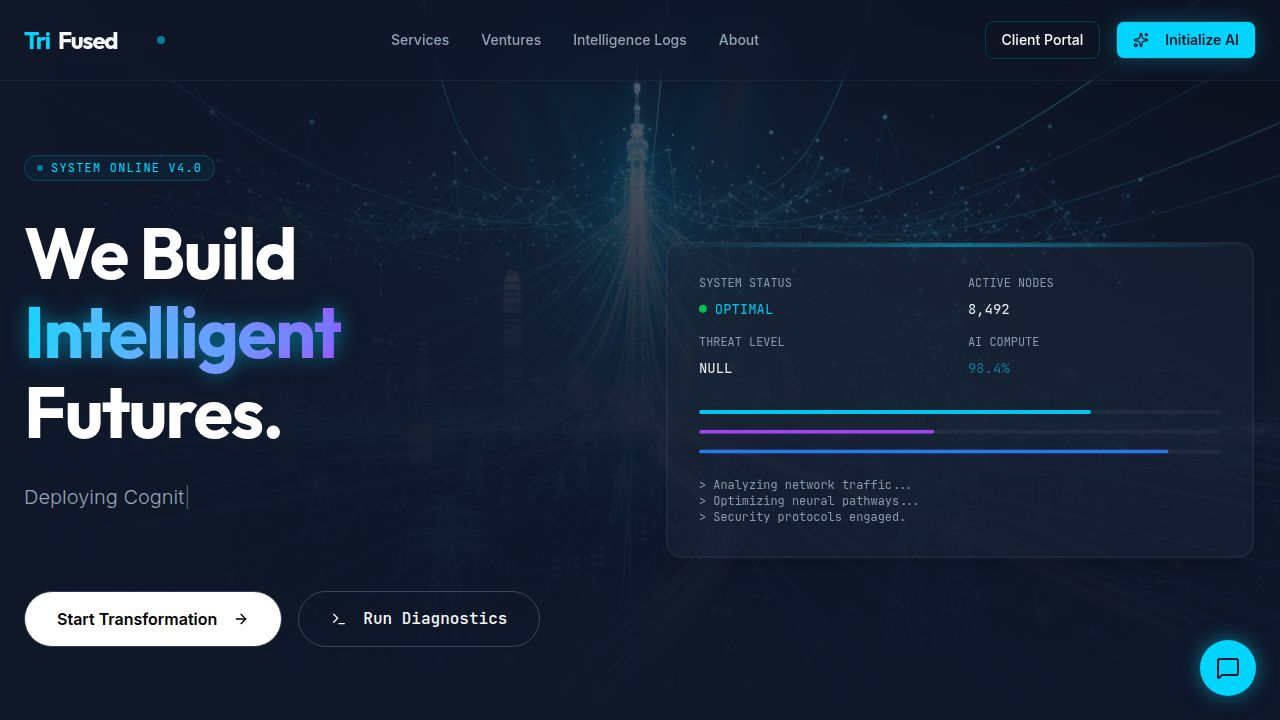
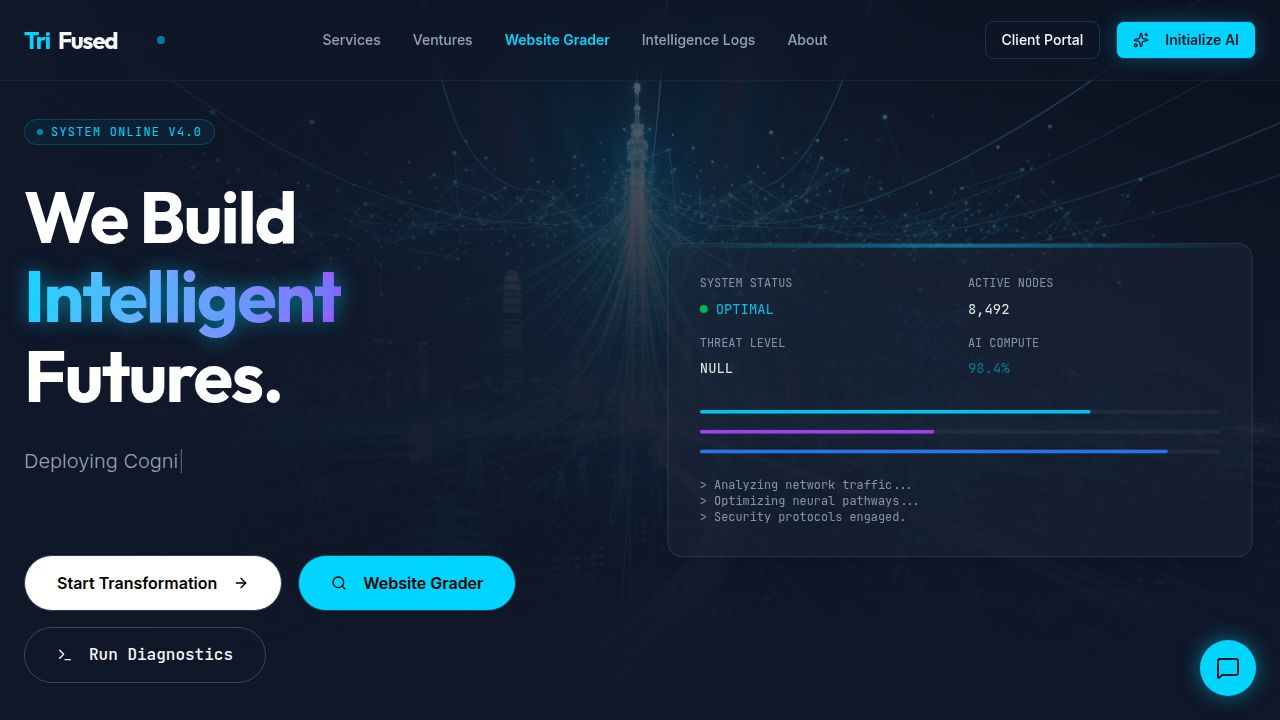
Add a website grader button to the hero section of the application
Update the hero component to include a new "Website Grader" button, position it between the existing "Start Transformation" and "Run Diagnostics" buttons, and add necessary imports for routing and icons.

Replit-Commit-Author: Agent
Replit-Commit-Session-Id: 1fa749ed-7d5e-4cb5-9e61-d676a3799873
Replit-Commit-Checkpoint-Type: full_checkpoint
Replit-Commit-Event-Id: 967f0cdc-e4c1-41d1-9c3d-5c597b847c88
Replit-Commit-Screenshot-Url: https://storage.googleapis.com/screenshot-production-us-central1/d05ee48a-aff6-4f9f-8e67-15ca10765ca9/1fa749ed-7d5e-4cb5-9e61-d676a3799873/cIXPm7h
Replit-Helium-Checkpoint-Created: true

diff --git a/client/src/components/sections/hero.tsx b/client/src/components/sections/hero.tsx
@@ -1,8 +1,9 @@
 import { Button } from "@/components/ui/button";
-import { ArrowRight, Terminal } from "lucide-react";
+import { ArrowRight, Terminal, Search } from "lucide-react";
 import heroBg from "@assets/generated_images/hero_background_with_neural_network_fusion.png";
 import { motion } from "framer-motion";
 import { useState, useEffect } from "react";
+import { useLocation } from "wouter";
 import { DiagnosticsOverlay } from "@/components/features/diagnostics-overlay";
 
 const Typewriter = ({ sequences, speed = 50, pause = 2000 }: { sequences: string[], speed?: number, pause?: number }) => {
@@ -44,6 +45,7 @@ const Typewriter = ({ sequences, speed = 50, pause = 2000 }: { sequences: string
 
 export function Hero() {
   const [showDiagnostics, setShowDiagnostics] = useState(false);
+  const [, setLocation] = useLocation();
 
   return (
     <div className="relative min-h-screen flex items-center pt-20 overflow-hidden">
@@ -94,13 +96,22 @@ export function Hero() {
             />
           </div>
 
-          <div className="flex flex-col sm:flex-row gap-4 pt-4">
+          <div className="flex flex-col sm:flex-row flex-wrap gap-4 pt-4">
             <Button 
               size="lg" 
               className="h-14 px-8 text-base bg-white text-black hover:bg-white/90 font-bold rounded-full transition-all hover:scale-105"
               onClick={() => document.getElementById('services')?.scrollIntoView({ behavior: 'smooth' })}
             >
               Start Transformation <ArrowRight className="ml-2 w-5 h-5" />
+            </Button>
+            <Button 
+              size="lg" 
+              className="h-14 px-8 text-base bg-primary text-black hover:bg-primary/90 font-bold rounded-full transition-all hover:scale-105"
+              onClick={() => setLocation('/grader')}
+              data-testid="button-hero-grader"
+            >
+              <Search className="mr-2 w-5 h-5" />
+              Website Grader
             </Button>
             <Button 
               size="lg" 
